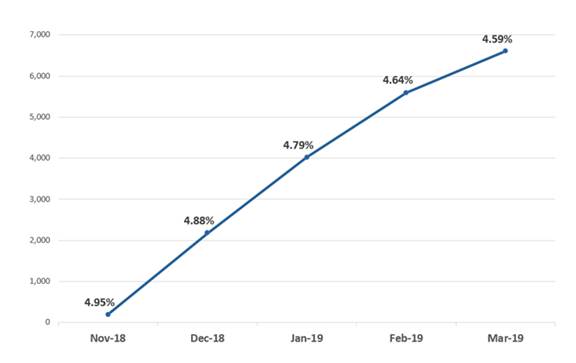
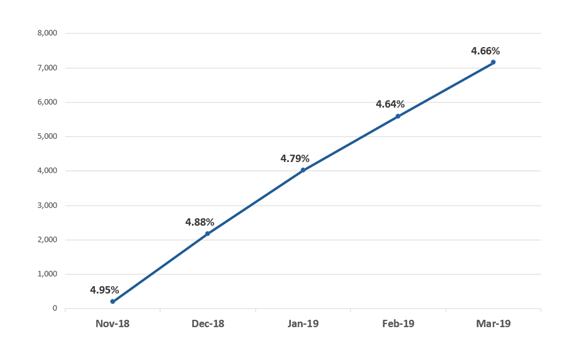
Commit of Content/Products.htm,Content/Requirement Specs/Discovery Data Model.htm,Content/Resources/Images/Frailty graph.png,Content/Resources/MasterPages/Docs.flmsp,Content/Resources/Scripts/page-toc.js,Content/Resources/Stylesheets/styles.css

diff --git a/Content/Requirement Specs/Discovery Data Model.htm b/Content/Requirement Specs/Discovery Data Model.htm
@@ -1,10 +1,10 @@
 <?xml version="1.0" encoding="utf-8"?>
-<html xmlns:MadCap="http://www.madcapsoftware.com/Schemas/MadCap.xsd" style="mc-master-page: url('..\Resources\MasterPages\Topic.flmsp');" class="topic">
+<html xmlns:MadCap="http://www.madcapsoftware.com/Schemas/MadCap.xsd" style="mc-master-page: url('..\Resources\MasterPages\Docs.flmsp');" class="topic">
     <head>
     </head>
     <body>
         <h1>Discovery Data Model requirements</h1>
-        <h2>Specification roadmap</h2>
+        <h2 class="numbered">Specification roadmap</h2>
         <p>The following flow chart describes the content of this page and the dependencies of subsequent pages. </p>
         <p><b>Tip:</b> Click each box to navigate to the relevant page.</p>
         <p>
@@ -12,9 +12,9 @@
         </p>
         <p class="caption">Specification road map showing the current page in green and subsequent dependent pages</p>
         <p>This page provides an overview of the Discovery Data Model and specifies the requirements that the common data model must meet.</p>
-        <h2>Common data model overview</h2>
+        <h2 class="numbered">Common data model overview</h2>
         <p>The common data model has an open and transparent design, includes a wide breadth of data types, and is human readable.</p>
-        <h3>Objectives</h3>
+        <h3 class="numbered">Objectives</h3>
         <p>The common data model enables you to:</p>
         <ul>
             <li class="bullets">visualise and easily understand the types of health data held  in an individual’s health record.</li>
@@ -22,7 +22,7 @@
             <li class="bullets">apply a query at both an individual and a population level so that the  query definition can be shared, scrutinised, and reused across a number of different implementations.</li>
             <li class="bullets">rapidly design and implement systems that store and access health data that is derived from multiple source systems from both the individual and population health perspective.</li>
         </ul>
-        <h3>How the model helps to achieve the objectives</h3>
+        <h3 class="numbered">How the model helps to achieve the objectives</h3>
         <p>The common data model is key to  achieving the objectives by enabling other software applications to:</p>
         <ul>
             <li class="bullets">provide visual representations of health data held  in an individual’s health record.</li>
@@ -39,36 +39,16 @@
             <li class="bullets">a library of predefined query definitions and related artefacts such as code sets, which can be distributed and accessed independently of other technologies.</li>
             <li class="bullets">sharing of query logic across any community regardless of whether or not the queries are applied to model conformant record stores.</li>
         </ul>
-        <h3>What the model is not</h3>
+        <h3 class="numbered">What the model is not</h3>
         <p>The common data model is not:</p>
         <ul>
             <li class="bullets">a proposed standard for storing or communicating electronic health records.<br /><b>Note:</b> The model organises data that has been stored; the categorisation is determined by information requirements and attribute patterns in the submitted data.</li>
             <li class="bullets">a semantic ontology - the model is semantically passive.<br /><b>Note:</b> The model does include ontologies but it is the responsibility of the source ontology, such as Snomed-CT to make sure that the meanings of the concepts are consistent.</li>
             <li class="bullets">a proposed approach to entering or displaying data.<br /><b>Note:</b> the model recognises and categorises the patterns created when data is entered.</li>
         </ul>
-        <h2>Requirements</h2>
+        <h2 class="numbered">Requirements</h2>
         <p><b>Important:</b> The words <i>must</i> and <i>will</i> imply mandatory requirements.</p>
-        <div class="my-doos">
-            <div id="parent">
-                <div id="propertyThumbnails">
-                    <table style="border-spacing: 0px 0px;">
-                        <tr>
-                            <th>stuff</th>
-                            <th>stuff</th>
-                        </tr>
-                        <tr>
-                            <td rowspan="3">Scope</td>
-                            <td>stuff</td>
-                        </tr>
-                        <tr>
-                            <td>stuff</td>
-                        </tr>
-                        <tr>
-                            <td>stuff</td>
-                        </tr>
-                    </table>
-                </div>
-            </div>
-        </div>
+        <h3 class="numbered">Scope of the Data Model</h3>
+        <p>The Data Model must be capable of supporting:</p>
     </body>
 </html>

diff --git a/Content/Products.htm b/Content/Products.htm
@@ -25,7 +25,7 @@
                 <ul>
                     <li class="bullets"><a href="NHS 111 Discovery frailty flagging.htm" id="NHS111project">NHS 111 project </a>
                         <br />Since the API went live in November 2018, the Discovery Data Service has: 
-						<li class="bullets2">handled 345,091 API requests.</li><li class="bullets2">matched 143,856 patients.</li><li class="bullets2">flagged 6,603 potentially frail patients.</li><li class="bullets2">Latest update: 19 March 2019.</li><li class="bullets2"><a href="Popups/Frailty graph.htm" class="MCTopicPopup MCTopicPopupHotSpot MCXref xref" MadCap:width="750px" MadCap:height="750px">Monthly totals</a></li></li>
+						<li class="bullets2">handled 370,654 API requests.</li><li class="bullets2">matched 153,237 patients.</li><li class="bullets2">flagged 7,147 potentially frail patients.</li><li class="bullets2">Latest update: 27 March 2019.</li><li class="bullets2"><a href="Popups/Frailty graph.htm" class="MCTopicPopup MCTopicPopupHotSpot MCXref xref" MadCap:width="750px" MadCap:height="750px">Monthly totals</a></li></li>
                 </ul>
             </div>
             <div class="column">

diff --git a/Content/Resources/Scripts/page-toc.js b/Content/Resources/Scripts/page-toc.js
@@ -1,4 +1,4 @@
-/* based on script from */
+/* based on script from */
 /* https://css-tricks.com/automatic-table-of-contents */ 
 
 $(document).ready(function() {
@@ -22,6 +22,7 @@ $(document).ready(function() {
          el = $(this);
          /* get the heading title */
          title = el.text();
+
          /* get the heading tag, this is capitalised, i.e. 'H2' or 'H3' */
          tag = el.prop("tagName");
       

diff --git a/Content/Resources/Stylesheets/styles.css b/Content/Resources/Stylesheets/styles.css
@@ -555,3 +555,17 @@ ul
 	list-style: none;
 }
 
+body {counter-reset: h2}
+
+h2 {counter-reset: h3
+}
+
+
+h2.numbered:before {counter-increment: h2; content: counter(h2) ". "}
+h3.numbered:before {counter-increment: h3; content: counter(h2) "." counter(h3) ". "}
+
+h2.nocount:before, h3.nocount:before, {content: ""; counter-increment: none} 
+
+
+
+
